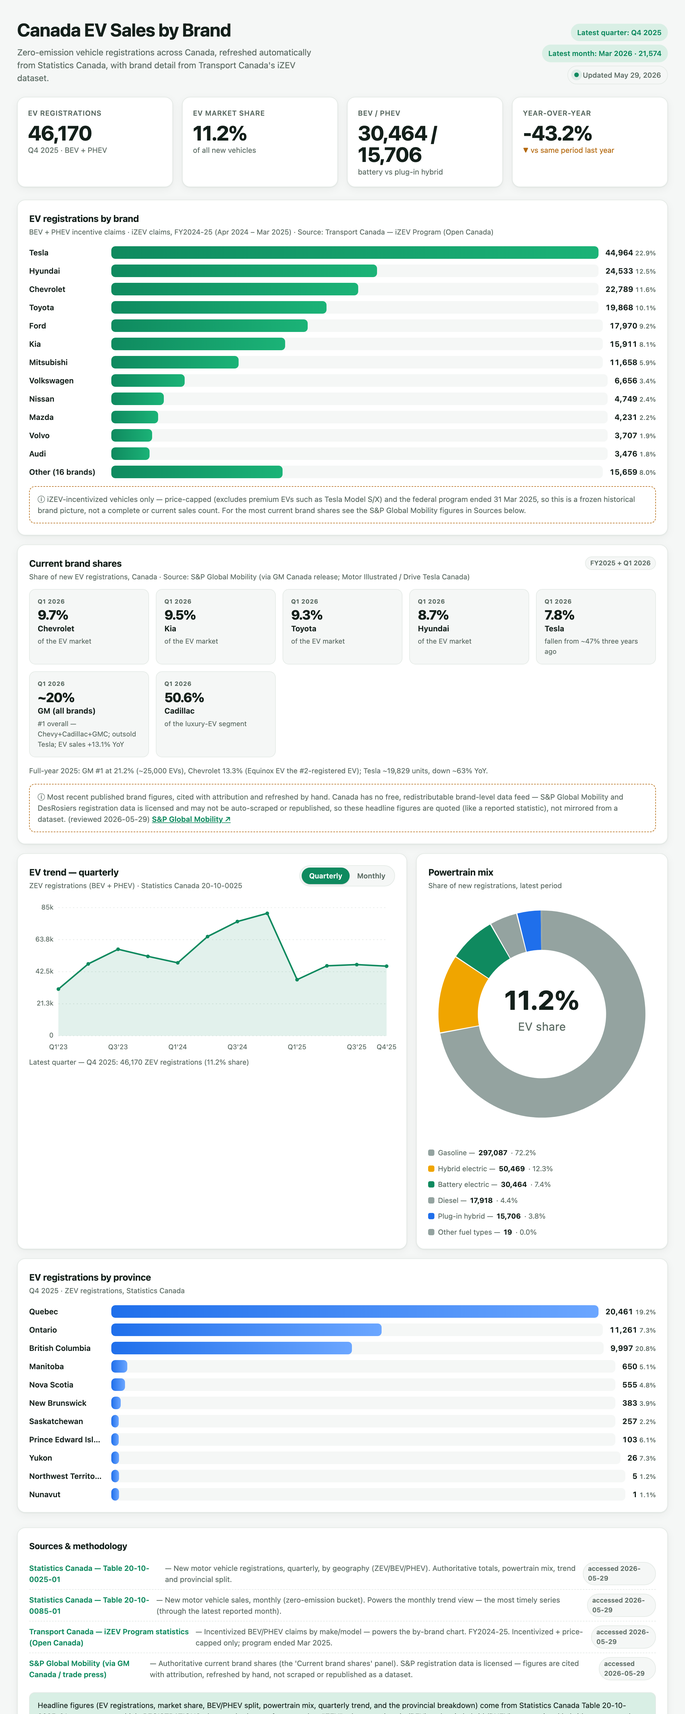
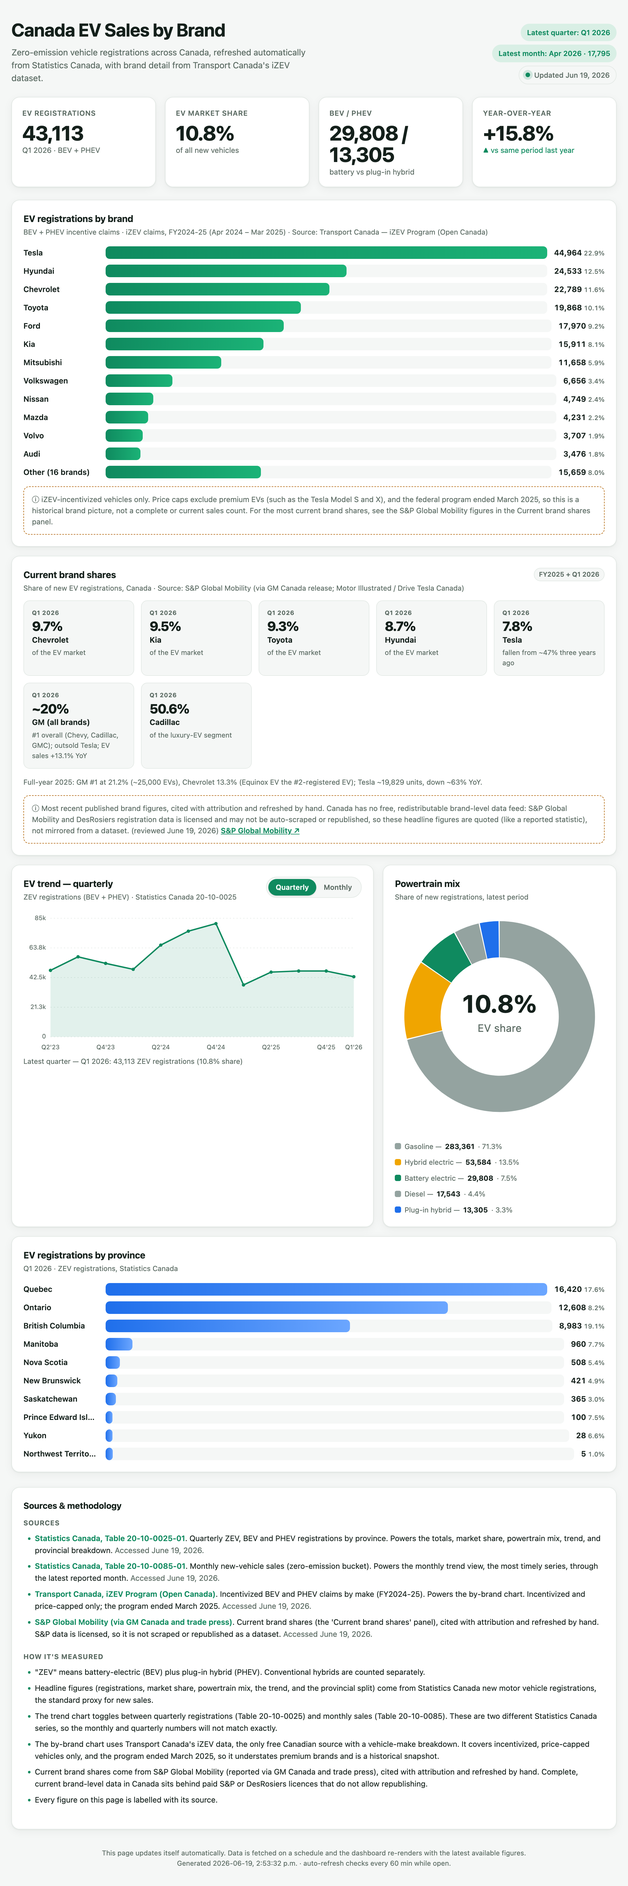
Refresh to Q1 2026 + clean up Sources/methodology (bulleted, left-aligned, friendly dates)
Data: StatCan Q1 2026 registrations + Apr 2026 monthly sales. UI: methodology as bullets, friendly dates, em-dashes removed.

diff --git a/site/index.html b/site/index.html
@@ -82,7 +82,7 @@
   <section class="card sources">
     <h2>Sources &amp; methodology</h2>
     <div id="sources-list"></div>
-    <div class="note" id="methodology"></div>
+    <div id="methodology" class="methodology"></div>
   </section>
 
   <footer class="foot">
@@ -94,7 +94,7 @@
 
 <!-- Embedded data snapshot — regenerated on every update by fetch_data.py. Do not hand-edit. -->
 <script id="ev-data" type="application/json">
-{"status":"ok","generated_at":"2026-05-29T14:27:32-04:00","subtitle":"Zero-emission vehicle registrations across Canada, refreshed automatically from Statistics Canada, with brand detail from Transport Canada's iZEV dataset.","latest_period":{"label":"Q4 2025","type":"quarter"},"totals":{"ev_registrations_latest":46170,"ev_share_pct_latest":11.2,"bev_latest":30464,"phev_latest":15706,"yoy_growth_pct":-43.2,"period_label":"Q4 2025","latest_month":{"label":"Mar 2026","zev":21574,"share_pct":12.2}},"powertrain_mix":[{"fuel_type":"Gasoline","count":297087,"share_pct":72.2},{"fuel_type":"Hybrid electric","count":50469,"share_pct":12.3},{"fuel_type":"Battery electric","count":30464,"share_pct":7.4},{"fuel_type":"Diesel","count":17918,"share_pct":4.4},{"fuel_type":"Plug-in hybrid","count":15706,"share_pct":3.8},{"fuel_type":"Other fuel types","count":19,"share_pct":0.0}],"ev_trend_quarterly":[{"period":"Q1'23","ref_per":"2023-01-01","bev":24217,"phev":6761,"zev_total":30978,"zev_share_pct":8.7},{"period":"Q2'23","ref_per":"2023-04-01","bev":35633,"phev":12052,"zev_total":47685,"zev_share_pct":10.1},{"period":"Q3'23","ref_per":"2023-07-01","bev":43763,"phev":13643,"zev_total":57406,"zev_share_pct":12.6},{"period":"Q4'23","ref_per":"2023-10-01","bev":40053,"phev":12634,"zev_total":52687,"zev_share_pct":12.3},{"period":"Q1'24","ref_per":"2024-01-01","bev":35782,"phev":12643,"zev_total":48425,"zev_share_pct":11.7},{"period":"Q2'24","ref_per":"2024-04-01","bev":48552,"phev":17247,"zev_total":65799,"zev_share_pct":12.9},{"period":"Q3'24","ref_per":"2024-07-01","bev":56197,"phev":19591,"zev_total":75788,"zev_share_pct":15.7},{"period":"Q4'24","ref_per":"2024-10-01","bev":61802,"phev":19414,"zev_total":81216,"zev_share_pct":18.3},{"period":"Q1'25","ref_per":"2025-01-01","bev":26401,"phev":10828,"zev_total":37229,"zev_share_pct":8.7},{"period":"Q2'25","ref_per":"2025-04-01","bev":29536,"phev":16877,"zev_total":46413,"zev_share_pct":8.6},{"period":"Q3'25","ref_per":"2025-07-01","bev":28648,"phev":18574,"zev_total":47222,"zev_share_pct":9.7},{"period":"Q4'25","ref_per":"2025-10-01","bev":30464,"phev":15706,"zev_total":46170,"zev_share_pct":11.2}],"ev_trend_monthly":[{"period":"Apr'24","ref_per":"2024-04-01","zev":20601,"all":175815,"zev_share_pct":11.7},{"period":"May'24","ref_per":"2024-05-01","zev":22612,"all":185178,"zev_share_pct":12.2},{"period":"Jun'24","ref_per":"2024-06-01","zev":21731,"all":166941,"zev_share_pct":13.0},{"period":"Jul'24","ref_per":"2024-07-01","zev":20989,"all":168310,"zev_share_pct":12.5},{"period":"Aug'24","ref_per":"2024-08-01","zev":23250,"all":166153,"zev_share_pct":14.0},{"period":"Sep'24","ref_per":"2024-09-01","zev":30318,"all":166757,"zev_share_pct":18.2},{"period":"Oct'24","ref_per":"2024-10-01","zev":25089,"all":164692,"zev_share_pct":15.2},{"period":"Nov'24","ref_per":"2024-11-01","zev":26487,"all":161535,"zev_share_pct":16.4},{"period":"Dec'24","ref_per":"2024-12-01","zev":24787,"all":135511,"zev_share_pct":18.3},{"period":"Jan'25","ref_per":"2025-01-01","zev":14542,"all":121251,"zev_share_pct":12.0},{"period":"Feb'25","ref_per":"2025-02-01","zev":8578,"all":125130,"zev_share_pct":6.9},{"period":"Mar'25","ref_per":"2025-03-01","zev":12347,"all":189032,"zev_share_pct":6.5},{"period":"Apr'25","ref_per":"2025-04-01","zev":14686,"all":195581,"zev_share_pct":7.5},{"period":"May'25","ref_per":"2025-05-01","zev":15297,"all":194322,"zev_share_pct":7.9},{"period":"Jun'25","ref_per":"2025-06-01","zev":14015,"all":177213,"zev_share_pct":7.9},{"period":"Jul'25","ref_per":"2025-07-01","zev":13916,"all":179797,"zev_share_pct":7.7},{"period":"Aug'25","ref_per":"2025-08-01","zev":14643,"all":166524,"zev_share_pct":8.8},{"period":"Sep'25","ref_per":"2025-09-01","zev":17101,"all":168640,"zev_share_pct":10.1},{"period":"Oct'25","ref_per":"2025-10-01","zev":14653,"all":165580,"zev_share_pct":8.8},{"period":"Nov'25","ref_per":"2025-11-01","zev":14199,"all":148529,"zev_share_pct":9.6},{"period":"Dec'25","ref_per":"2025-12-01","zev":15995,"all":126983,"zev_share_pct":12.6},{"period":"Jan'26","ref_per":"2026-01-01","zev":8672,"all":114261,"zev_share_pct":7.6},{"period":"Feb'26","ref_per":"2026-02-01","zev":12547,"all":124068,"zev_share_pct":10.1},{"period":"Mar'26","ref_per":"2026-03-01","zev":21574,"all":176500,"zev_share_pct":12.2}],"by_province_latest":[{"province":"Quebec","zev":20461,"share_pct":19.2},{"province":"Ontario","zev":11261,"share_pct":7.3},{"province":"British Columbia","zev":9997,"share_pct":20.8},{"province":"Manitoba","zev":650,"share_pct":5.1},{"province":"Nova Scotia","zev":555,"share_pct":4.8},{"province":"New Brunswick","zev":383,"share_pct":3.9},{"province":"Saskatchewan","zev":257,"share_pct":2.2},{"province":"Prince Edward Island","zev":103,"share_pct":6.1},{"province":"Yukon","zev":26,"share_pct":7.3},{"province":"Northwest Territories","zev":5,"share_pct":1.2},{"province":"Nunavut","zev":1,"share_pct":1.1}],"by_brand":[{"brand":"Tesla","units":44964,"share_pct":22.9,"bev":44964,"phev":0},{"brand":"Hyundai","units":24533,"share_pct":12.5,"bev":21314,"phev":3219},{"brand":"Chevrolet","units":22789,"share_pct":11.6,"bev":22789,"phev":0},{"brand":"Toyota","units":19868,"share_pct":10.1,"bev":5638,"phev":14218},{"brand":"Ford","units":17970,"share_pct":9.2,"bev":11353,"phev":6617},{"brand":"Kia","units":15911,"share_pct":8.1,"bev":12802,"phev":3109},{"brand":"Mitsubishi","units":11658,"share_pct":5.9,"bev":0,"phev":11658},{"brand":"Volkswagen","units":6656,"share_pct":3.4,"bev":6656,"phev":0},{"brand":"Nissan","units":4749,"share_pct":2.4,"bev":4749,"phev":0},{"brand":"Mazda","units":4231,"share_pct":2.2,"bev":189,"phev":4042},{"brand":"Volvo","units":3707,"share_pct":1.9,"bev":2108,"phev":1599},{"brand":"Audi","units":3476,"share_pct":1.8,"bev":3476,"phev":0},{"brand":"Other (16 brands)","units":15659,"share_pct":8.0}],"by_brand_meta":{"source":"Transport Canada — iZEV Program (Open Canada)","source_url":"https://open.canada.ca/data/en/dataset/42986a95-be23-436e-af15-7c6bf292a2e1","period":"iZEV claims, FY2024-25 (Apr 2024 – Mar 2025)","metric":"BEV + PHEV incentive claims","credibility_note":"iZEV-incentivized vehicles only — price-capped (excludes premium EVs such as Tesla Model S/X) and the federal program ended 31 Mar 2025, so this is a frozen historical brand picture, not a complete or current sales count. For the most current brand shares see the S&P Global Mobility figures in Sources below."},"current_brand_shares":{"as_of":"FY2025 + Q1 2026","reviewed":"2026-05-29","metric":"Share of new EV registrations, Canada","source":"S&P Global Mobility","via":"GM Canada release; Motor Illustrated / Drive Tesla Canada","source_url":"https://www.spglobal.com/mobility/en/info/0521/automotive-insights-canada-evs.html","rows":[{"period":"Q1 2026","label":"Chevrolet","value":"9.7%","note":"of the EV market"},{"period":"Q1 2026","label":"Kia","value":"9.5%","note":"of the EV market"},{"period":"Q1 2026","label":"Toyota","value":"9.3%","note":"of the EV market"},{"period":"Q1 2026","label":"Hyundai","value":"8.7%","note":"of the EV market"},{"period":"Q1 2026","label":"Tesla","value":"7.8%","note":"fallen from ~47% three years ago"},{"period":"Q1 2026","label":"GM (all brands)","value":"~20%","note":"#1 overall — Chevy+Cadillac+GMC; outsold Tesla; EV sales +13.1% YoY"},{"period":"Q1 2026","label":"Cadillac","value":"50.6%","note":"of the luxury-EV segment"}],"context":"Full-year 2025: GM #1 at 21.2% (~25,000 EVs), Chevrolet 13.3% (Equinox EV the #2-registered EV); Tesla ~19,829 units, down ~63% YoY.","note":"Most recent published brand figures, cited with attribution and refreshed by hand. Canada has no free, redistributable brand-level data feed — S&P Global Mobility and DesRosiers registration data is licensed and may not be auto-scraped or republished, so these headline figures are quoted (like a reported statistic), not mirrored from a dataset."},"sources":[{"name":"Statistics Canada — Table 20-10-0025-01","detail":"New motor vehicle registrations, quarterly, by geography (ZEV/BEV/PHEV). Authoritative totals, powertrain mix, trend and provincial split.","url":"https://www150.statcan.gc.ca/t1/tbl1/en/tv.action?pid=2010002501","accessed":"2026-05-29"},{"name":"Statistics Canada — Table 20-10-0085-01","detail":"New motor vehicle sales, monthly (zero-emission bucket). Powers the monthly trend view — the most timely series (through the latest reported month).","url":"https://www150.statcan.gc.ca/t1/tbl1/en/tv.action?pid=2010008501","accessed":"2026-05-29"},{"name":"Transport Canada — iZEV Program statistics (Open Canada)","detail":"Incentivized BEV/PHEV claims by make/model — powers the by-brand chart. FY2024-25. Incentivized + price-capped only; program ended Mar 2025.","url":"https://open.canada.ca/data/en/dataset/42986a95-be23-436e-af15-7c6bf292a2e1","accessed":"2026-05-29"},{"name":"S&P Global Mobility (via GM Canada / trade press)","detail":"Authoritative current brand shares (the 'Current brand shares' panel). S&P registration data is licensed — figures are cited with attribution, refreshed by hand, not scraped or republished as a dataset.","url":"https://www.spglobal.com/mobility/en/info/0521/automotive-insights-canada-evs.html","accessed":"2026-05-29"}],"methodology":"Headline figures (EV registrations, market share, BEV/PHEV split, powertrain mix, quarterly trend, and the provincial breakdown) come from Statistics Canada Table 20-10-0025-01 — new motor vehicle REGISTRATIONS, the standard proxy for new sales. \"ZEV\" = battery-electric (BEV) + plug-in hybrid (PHEV); conventional hybrids are counted separately. The trend chart toggles between quarterly registrations (20-10-0025, with the BEV/PHEV split) and monthly SALES (20-10-0085, a single zero-emission bucket and the most timely series) — these are two different StatCan series, so the monthly and quarterly figures will not tie out exactly. The by-brand chart uses Transport Canada's iZEV incentive dataset, the only free, machine-readable Canadian source with a vehicle-make dimension — but it covers incentivized, price-capped vehicles only and the program ended 31 Mar 2025, so it understates premium brands and is a frozen historical view. For the most current brand picture, the 'Current brand shares' panel shows S&P Global Mobility figures (as reported via GM Canada and trade press) — cited with attribution and refreshed by hand, because complete, current, brand-level registration data in Canada exists only behind paid S&P Global Mobility / DesRosiers licences whose terms forbid auto-scraping or republishing. Every figure is labelled with its source.","notes":[],"build":{"statcan_ok":true,"izev_fy":"FY2024-25","izev_total":196171,"izev_fetched":"2026-05-29T10:47:42"}}
+{"status":"ok","generated_at":"2026-06-19T14:53:32-04:00","subtitle":"Zero-emission vehicle registrations across Canada, refreshed automatically from Statistics Canada, with brand detail from Transport Canada's iZEV dataset.","latest_period":{"label":"Q1 2026","type":"quarter"},"totals":{"ev_registrations_latest":43113,"ev_share_pct_latest":10.8,"bev_latest":29808,"phev_latest":13305,"yoy_growth_pct":15.8,"period_label":"Q1 2026","latest_month":{"label":"Apr 2026","zev":17795,"share_pct":9.7}},"powertrain_mix":[{"fuel_type":"Gasoline","count":283361,"share_pct":71.3},{"fuel_type":"Hybrid electric","count":53584,"share_pct":13.5},{"fuel_type":"Battery electric","count":29808,"share_pct":7.5},{"fuel_type":"Diesel","count":17543,"share_pct":4.4},{"fuel_type":"Plug-in hybrid","count":13305,"share_pct":3.3}],"ev_trend_quarterly":[{"period":"Q2'23","ref_per":"2023-04-01","bev":35633,"phev":12052,"zev_total":47685,"zev_share_pct":10.1},{"period":"Q3'23","ref_per":"2023-07-01","bev":43763,"phev":13643,"zev_total":57406,"zev_share_pct":12.6},{"period":"Q4'23","ref_per":"2023-10-01","bev":40053,"phev":12634,"zev_total":52687,"zev_share_pct":12.3},{"period":"Q1'24","ref_per":"2024-01-01","bev":35782,"phev":12643,"zev_total":48425,"zev_share_pct":11.7},{"period":"Q2'24","ref_per":"2024-04-01","bev":48552,"phev":17247,"zev_total":65799,"zev_share_pct":12.9},{"period":"Q3'24","ref_per":"2024-07-01","bev":56197,"phev":19591,"zev_total":75788,"zev_share_pct":15.7},{"period":"Q4'24","ref_per":"2024-10-01","bev":61802,"phev":19414,"zev_total":81216,"zev_share_pct":18.3},{"period":"Q1'25","ref_per":"2025-01-01","bev":26401,"phev":10828,"zev_total":37229,"zev_share_pct":8.7},{"period":"Q2'25","ref_per":"2025-04-01","bev":29536,"phev":16877,"zev_total":46413,"zev_share_pct":8.6},{"period":"Q3'25","ref_per":"2025-07-01","bev":28648,"phev":18574,"zev_total":47222,"zev_share_pct":9.7},{"period":"Q4'25","ref_per":"2025-10-01","bev":31482,"phev":15722,"zev_total":47204,"zev_share_pct":11.4},{"period":"Q1'26","ref_per":"2026-01-01","bev":29808,"phev":13305,"zev_total":43113,"zev_share_pct":10.8}],"ev_trend_monthly":[{"period":"May'24","ref_per":"2024-05-01","zev":22612,"all":185178,"zev_share_pct":12.2},{"period":"Jun'24","ref_per":"2024-06-01","zev":21731,"all":166941,"zev_share_pct":13.0},{"period":"Jul'24","ref_per":"2024-07-01","zev":20989,"all":168310,"zev_share_pct":12.5},{"period":"Aug'24","ref_per":"2024-08-01","zev":23250,"all":166153,"zev_share_pct":14.0},{"period":"Sep'24","ref_per":"2024-09-01","zev":30318,"all":166757,"zev_share_pct":18.2},{"period":"Oct'24","ref_per":"2024-10-01","zev":25089,"all":164692,"zev_share_pct":15.2},{"period":"Nov'24","ref_per":"2024-11-01","zev":26487,"all":161535,"zev_share_pct":16.4},{"period":"Dec'24","ref_per":"2024-12-01","zev":24787,"all":135511,"zev_share_pct":18.3},{"period":"Jan'25","ref_per":"2025-01-01","zev":14542,"all":121251,"zev_share_pct":12.0},{"period":"Feb'25","ref_per":"2025-02-01","zev":8578,"all":125130,"zev_share_pct":6.9},{"period":"Mar'25","ref_per":"2025-03-01","zev":12347,"all":189032,"zev_share_pct":6.5},{"period":"Apr'25","ref_per":"2025-04-01","zev":14686,"all":195581,"zev_share_pct":7.5},{"period":"May'25","ref_per":"2025-05-01","zev":15297,"all":194322,"zev_share_pct":7.9},{"period":"Jun'25","ref_per":"2025-06-01","zev":14015,"all":177213,"zev_share_pct":7.9},{"period":"Jul'25","ref_per":"2025-07-01","zev":13916,"all":179797,"zev_share_pct":7.7},{"period":"Aug'25","ref_per":"2025-08-01","zev":14643,"all":166524,"zev_share_pct":8.8},{"period":"Sep'25","ref_per":"2025-09-01","zev":17101,"all":168640,"zev_share_pct":10.1},{"period":"Oct'25","ref_per":"2025-10-01","zev":14653,"all":165580,"zev_share_pct":8.8},{"period":"Nov'25","ref_per":"2025-11-01","zev":14199,"all":148529,"zev_share_pct":9.6},{"period":"Dec'25","ref_per":"2025-12-01","zev":15995,"all":126983,"zev_share_pct":12.6},{"period":"Jan'26","ref_per":"2026-01-01","zev":8672,"all":114261,"zev_share_pct":7.6},{"period":"Feb'26","ref_per":"2026-02-01","zev":12547,"all":124068,"zev_share_pct":10.1},{"period":"Mar'26","ref_per":"2026-03-01","zev":21574,"all":176500,"zev_share_pct":12.2},{"period":"Apr'26","ref_per":"2026-04-01","zev":17795,"all":183921,"zev_share_pct":9.7}],"by_province_latest":[{"province":"Quebec","zev":16420,"share_pct":17.6},{"province":"Ontario","zev":12608,"share_pct":8.2},{"province":"British Columbia","zev":8983,"share_pct":19.1},{"province":"Manitoba","zev":960,"share_pct":7.7},{"province":"Nova Scotia","zev":508,"share_pct":5.4},{"province":"New Brunswick","zev":421,"share_pct":4.9},{"province":"Saskatchewan","zev":365,"share_pct":3.0},{"province":"Prince Edward Island","zev":100,"share_pct":7.5},{"province":"Yukon","zev":28,"share_pct":6.6},{"province":"Northwest Territories","zev":5,"share_pct":1.0}],"by_brand":[{"brand":"Tesla","units":44964,"share_pct":22.9,"bev":44964,"phev":0},{"brand":"Hyundai","units":24533,"share_pct":12.5,"bev":21314,"phev":3219},{"brand":"Chevrolet","units":22789,"share_pct":11.6,"bev":22789,"phev":0},{"brand":"Toyota","units":19868,"share_pct":10.1,"bev":5638,"phev":14218},{"brand":"Ford","units":17970,"share_pct":9.2,"bev":11353,"phev":6617},{"brand":"Kia","units":15911,"share_pct":8.1,"bev":12802,"phev":3109},{"brand":"Mitsubishi","units":11658,"share_pct":5.9,"bev":0,"phev":11658},{"brand":"Volkswagen","units":6656,"share_pct":3.4,"bev":6656,"phev":0},{"brand":"Nissan","units":4749,"share_pct":2.4,"bev":4749,"phev":0},{"brand":"Mazda","units":4231,"share_pct":2.2,"bev":189,"phev":4042},{"brand":"Volvo","units":3707,"share_pct":1.9,"bev":2108,"phev":1599},{"brand":"Audi","units":3476,"share_pct":1.8,"bev":3476,"phev":0},{"brand":"Other (16 brands)","units":15659,"share_pct":8.0}],"by_brand_meta":{"source":"Transport Canada — iZEV Program (Open Canada)","source_url":"https://open.canada.ca/data/en/dataset/42986a95-be23-436e-af15-7c6bf292a2e1","period":"iZEV claims, FY2024-25 (Apr 2024 – Mar 2025)","metric":"BEV + PHEV incentive claims","credibility_note":"iZEV-incentivized vehicles only. Price caps exclude premium EVs (such as the Tesla Model S and X), and the federal program ended March 2025, so this is a historical brand picture, not a complete or current sales count. For the most current brand shares, see the S&P Global Mobility figures in the Current brand shares panel."},"current_brand_shares":{"as_of":"FY2025 + Q1 2026","reviewed":"2026-06-19","metric":"Share of new EV registrations, Canada","source":"S&P Global Mobility","via":"GM Canada release; Motor Illustrated / Drive Tesla Canada","source_url":"https://www.spglobal.com/mobility/en/info/0521/automotive-insights-canada-evs.html","rows":[{"period":"Q1 2026","label":"Chevrolet","value":"9.7%","note":"of the EV market"},{"period":"Q1 2026","label":"Kia","value":"9.5%","note":"of the EV market"},{"period":"Q1 2026","label":"Toyota","value":"9.3%","note":"of the EV market"},{"period":"Q1 2026","label":"Hyundai","value":"8.7%","note":"of the EV market"},{"period":"Q1 2026","label":"Tesla","value":"7.8%","note":"fallen from ~47% three years ago"},{"period":"Q1 2026","label":"GM (all brands)","value":"~20%","note":"#1 overall (Chevy, Cadillac, GMC); outsold Tesla; EV sales +13.1% YoY"},{"period":"Q1 2026","label":"Cadillac","value":"50.6%","note":"of the luxury-EV segment"}],"context":"Full-year 2025: GM #1 at 21.2% (~25,000 EVs), Chevrolet 13.3% (Equinox EV the #2-registered EV); Tesla ~19,829 units, down ~63% YoY.","note":"Most recent published brand figures, cited with attribution and refreshed by hand. Canada has no free, redistributable brand-level data feed: S&P Global Mobility and DesRosiers registration data is licensed and may not be auto-scraped or republished, so these headline figures are quoted (like a reported statistic), not mirrored from a dataset."},"sources":[{"name":"Statistics Canada, Table 20-10-0025-01","detail":"Quarterly ZEV, BEV and PHEV registrations by province. Powers the totals, market share, powertrain mix, trend, and provincial breakdown.","url":"https://www150.statcan.gc.ca/t1/tbl1/en/tv.action?pid=2010002501","accessed":"2026-06-19"},{"name":"Statistics Canada, Table 20-10-0085-01","detail":"Monthly new-vehicle sales (zero-emission bucket). Powers the monthly trend view, the most timely series, through the latest reported month.","url":"https://www150.statcan.gc.ca/t1/tbl1/en/tv.action?pid=2010008501","accessed":"2026-06-19"},{"name":"Transport Canada, iZEV Program (Open Canada)","detail":"Incentivized BEV and PHEV claims by make (FY2024-25). Powers the by-brand chart. Incentivized and price-capped only; the program ended March 2025.","url":"https://open.canada.ca/data/en/dataset/42986a95-be23-436e-af15-7c6bf292a2e1","accessed":"2026-06-19"},{"name":"S&P Global Mobility (via GM Canada and trade press)","detail":"Current brand shares (the 'Current brand shares' panel), cited with attribution and refreshed by hand. S&P data is licensed, so it is not scraped or republished as a dataset.","url":"https://www.spglobal.com/mobility/en/info/0521/automotive-insights-canada-evs.html","accessed":"2026-06-19"}],"methodology":["\"ZEV\" means battery-electric (BEV) plus plug-in hybrid (PHEV). Conventional hybrids are counted separately.","Headline figures (registrations, market share, powertrain mix, the trend, and the provincial split) come from Statistics Canada new motor vehicle registrations, the standard proxy for new sales.","The trend chart toggles between quarterly registrations (Table 20-10-0025) and monthly sales (Table 20-10-0085). These are two different Statistics Canada series, so the monthly and quarterly numbers will not match exactly.","The by-brand chart uses Transport Canada's iZEV data, the only free Canadian source with a vehicle-make breakdown. It covers incentivized, price-capped vehicles only, and the program ended March 2025, so it understates premium brands and is a historical snapshot.","Current brand shares come from S&P Global Mobility (reported via GM Canada and trade press), cited with attribution and refreshed by hand. Complete, current brand-level data in Canada sits behind paid S&P or DesRosiers licences that do not allow republishing.","Every figure on this page is labelled with its source."],"notes":[],"build":{"statcan_ok":true,"izev_fy":"FY2024-25","izev_total":196171,"izev_fetched":"2026-06-19T14:53:32"}}
 </script>
 
 <script src="app.js"></script>

diff --git a/site/app.js b/site/app.js
@@ -20,6 +20,16 @@
   function esc(s) { return String(s == null ? "" : s).replace(/[&<>"']/g, function (c) {
     return { "&": "&amp;", "<": "&lt;", ">": "&gt;", '"': "&quot;", "'": "&#39;" }[c]; }); }
 
+  // ISO date -> friendly "June 19, 2026" (leaves non-ISO strings untouched)
+  var MONTHS_LONG = ["January", "February", "March", "April", "May", "June",
+    "July", "August", "September", "October", "November", "December"];
+  function friendlyDate(s) {
+    if (!s) return "";
+    var m = /^(\d{4})-(\d{2})-(\d{2})/.exec(String(s));
+    if (!m) return String(s);
+    return MONTHS_LONG[+m[2] - 1] + " " + (+m[3]) + ", " + m[1];
+  }
+
   function readEmbedded() {
     try { return JSON.parse(document.getElementById("ev-data").textContent); }
     catch (e) { return null; }
@@ -308,17 +318,24 @@
 
   function renderSources(d) {
     var host = document.getElementById("sources-list");
-    host.innerHTML = "";
-    (d.sources || []).forEach(function (s) {
-      var item = el("div", { class: "source-item" });
-      var link = s.url ? '<a href="' + esc(s.url) + '" target="_blank" rel="noopener">' + esc(s.name) + "</a>" : "<strong>" + esc(s.name) + "</strong>";
-      var detail = s.detail ? " — " + esc(s.detail) : "";
-      var acc = s.accessed ? ' <span class="pill">accessed ' + esc(s.accessed) + "</span>" : "";
-      item.innerHTML = link + detail + acc;
-      host.appendChild(item);
-    });
+    var srcLis = (d.sources || []).map(function (s) {
+      var link = s.url
+        ? '<a href="' + esc(s.url) + '" target="_blank" rel="noopener">' + esc(s.name) + "</a>"
+        : "<strong>" + esc(s.name) + "</strong>";
+      var detail = s.detail ? ". " + esc(s.detail) : "";
+      var acc = s.accessed ? ' <span class="muted">Accessed ' + esc(friendlyDate(s.accessed)) + ".</span>" : "";
+      return "<li>" + link + detail + acc + "</li>";
+    }).join("");
+    host.innerHTML = '<h3 class="section-label">Sources</h3><ul class="src-list">' + srcLis + "</ul>";
+
     var meth = document.getElementById("methodology");
-    meth.innerHTML = d.methodology ? esc(d.methodology).replace(/\n/g, "<br />") : "";
+    var m = d.methodology;
+    if (Array.isArray(m)) {
+      meth.innerHTML = '<h3 class="section-label">How it&#39;s measured</h3><ul class="bullets">' +
+        m.map(function (x) { return "<li>" + esc(x) + "</li>"; }).join("") + "</ul>";
+    } else {
+      meth.innerHTML = m ? esc(m).replace(/\n/g, "<br />") : "";
+    }
   }
 
   function renderCurrentShares(d) {
@@ -347,7 +364,7 @@
     var note = document.getElementById("shares-note");
     var link = s.source_url ? ' <a href="' + esc(s.source_url) +
       '" target="_blank" rel="noopener" style="color:var(--accent);font-weight:600;">S&amp;P Global Mobility ↗</a>' : "";
-    note.innerHTML = "ⓘ " + esc(s.note || "") + (s.reviewed ? " (reviewed " + esc(s.reviewed) + ")" : "") + link;
+    note.innerHTML = "ⓘ " + esc(s.note || "") + (s.reviewed ? " (reviewed " + esc(friendlyDate(s.reviewed)) + ")" : "") + link;
   }
 
   function render(d) {

diff --git a/site/styles.css b/site/styles.css
@@ -122,6 +122,16 @@ table.data tr:last-child td { border-bottom: none; }
 .source-item a:hover { text-decoration: underline; }
 .note { background: var(--accent-soft); color: var(--ink); border-radius: 10px; padding: 12px 14px; font-size: 13px; margin-top: 14px; border: 1px solid var(--line); }
 .note.caveat { background: transparent; border: 1px dashed var(--warn); color: var(--ink-soft); }
+
+/* Sources & methodology — left-aligned, bulleted, friendly dates */
+.sources, .note { text-align: left; }
+.section-label { font-size: 12px; font-weight: 700; text-transform: uppercase; letter-spacing: .05em; color: var(--ink-soft); margin: 4px 0 8px; }
+.src-list, .bullets { margin: 2px 0 20px; padding-left: 20px; text-align: left; }
+.src-list li, .bullets li { margin: 7px 0; line-height: 1.55; font-size: 13.5px; }
+.src-list li::marker, .bullets li::marker { color: var(--accent); }
+.src-list a { color: var(--accent); font-weight: 600; text-decoration: none; }
+.src-list a:hover { text-decoration: underline; }
+.methodology { background: none; border: none; padding: 0; margin: 0; }
 footer.foot { margin-top: 32px; text-align: center; color: var(--ink-soft); font-size: 12px; }
 footer.foot code { background: var(--card); padding: 2px 6px; border-radius: 5px; border: 1px solid var(--line); }
 

diff --git a/fetch_data.py b/fetch_data.py
@@ -418,10 +418,10 @@ def aggregate_izev():
             "period": period,
             "metric": "BEV + PHEV incentive claims",
             "credibility_note": (
-                "iZEV-incentivized vehicles only — price-capped (excludes premium EVs such as "
-                "Tesla Model S/X) and the federal program ended 31 Mar 2025, so this is a frozen "
-                "historical brand picture, not a complete or current sales count. For the most "
-                "current brand shares see the S&P Global Mobility figures in Sources below."
+                "iZEV-incentivized vehicles only. Price caps exclude premium EVs (such as the Tesla "
+                "Model S and X), and the federal program ended March 2025, so this is a historical "
+                "brand picture, not a complete or current sales count. For the most current brand "
+                "shares, see the S&P Global Mobility figures in the Current brand shares panel."
             ),
         },
         "_izev_total": grand_total,
@@ -495,7 +495,7 @@ def load_prev():
 # published (e.g. the next GM Canada quarterly EV release or S&P "Canadian EV Insights").
 CURRENT_BRAND_SHARES = {
     "as_of": "FY2025 + Q1 2026",
-    "reviewed": "2026-05-29",
+    "reviewed": "2026-06-19",
     "metric": "Share of new EV registrations, Canada",
     "source": "S&P Global Mobility",
     "via": "GM Canada release; Motor Illustrated / Drive Tesla Canada",
@@ -509,12 +509,12 @@ CURRENT_BRAND_SHARES = {
         {"period": "Q1 2026", "label": "Toyota", "value": "9.3%", "note": "of the EV market"},
         {"period": "Q1 2026", "label": "Hyundai", "value": "8.7%", "note": "of the EV market"},
         {"period": "Q1 2026", "label": "Tesla", "value": "7.8%", "note": "fallen from ~47% three years ago"},
-        {"period": "Q1 2026", "label": "GM (all brands)", "value": "~20%", "note": "#1 overall — Chevy+Cadillac+GMC; outsold Tesla; EV sales +13.1% YoY"},
+        {"period": "Q1 2026", "label": "GM (all brands)", "value": "~20%", "note": "#1 overall (Chevy, Cadillac, GMC); outsold Tesla; EV sales +13.1% YoY"},
         {"period": "Q1 2026", "label": "Cadillac", "value": "50.6%", "note": "of the luxury-EV segment"},
     ],
     "context": "Full-year 2025: GM #1 at 21.2% (~25,000 EVs), Chevrolet 13.3% (Equinox EV the #2-registered EV); Tesla ~19,829 units, down ~63% YoY.",
     "note": ("Most recent published brand figures, cited with attribution and refreshed by hand. "
-             "Canada has no free, redistributable brand-level data feed — S&P Global Mobility and "
+             "Canada has no free, redistributable brand-level data feed: S&P Global Mobility and "
              "DesRosiers registration data is licensed and may not be auto-scraped or republished, "
              "so these headline figures are quoted (like a reported statistic), not mirrored from a dataset."),
 }
@@ -541,53 +541,53 @@ def assemble(statcan, monthly, izev, prev):
         "current_brand_shares": CURRENT_BRAND_SHARES,
         "sources": [
             {
-                "name": "Statistics Canada — Table 20-10-0025-01",
-                "detail": "New motor vehicle registrations, quarterly, by geography (ZEV/BEV/PHEV). "
-                          "Authoritative totals, powertrain mix, trend and provincial split.",
+                "name": "Statistics Canada, Table 20-10-0025-01",
+                "detail": "Quarterly ZEV, BEV and PHEV registrations by province. Powers the totals, "
+                          "market share, powertrain mix, trend, and provincial breakdown.",
                 "url": "https://www150.statcan.gc.ca/t1/tbl1/en/tv.action?pid=2010002501",
                 "accessed": TODAY,
             },
             {
-                "name": "Statistics Canada — Table 20-10-0085-01",
-                "detail": "New motor vehicle sales, monthly (zero-emission bucket). Powers the monthly "
-                          "trend view — the most timely series (through the latest reported month).",
+                "name": "Statistics Canada, Table 20-10-0085-01",
+                "detail": "Monthly new-vehicle sales (zero-emission bucket). Powers the monthly trend "
+                          "view, the most timely series, through the latest reported month.",
                 "url": "https://www150.statcan.gc.ca/t1/tbl1/en/tv.action?pid=2010008501",
                 "accessed": TODAY,
             },
             {
-                "name": "Transport Canada — iZEV Program statistics (Open Canada)",
-                "detail": f"Incentivized BEV/PHEV claims by make/model — powers the by-brand chart. "
-                          f"{izev.get('_izev_fy', '')}. Incentivized + price-capped only; program ended Mar 2025.",
+                "name": "Transport Canada, iZEV Program (Open Canada)",
+                "detail": f"Incentivized BEV and PHEV claims by make ({izev.get('_izev_fy', '')}). "
+                          f"Powers the by-brand chart. Incentivized and price-capped only; the program "
+                          f"ended March 2025.",
                 "url": "https://open.canada.ca/data/en/dataset/" + IZEV_PKG,
                 "accessed": TODAY,
             },
             {
-                "name": "S&P Global Mobility (via GM Canada / trade press)",
-                "detail": "Authoritative current brand shares (the 'Current brand shares' panel). "
-                          "S&P registration data is licensed — figures are cited with attribution, "
-                          "refreshed by hand, not scraped or republished as a dataset.",
+                "name": "S&P Global Mobility (via GM Canada and trade press)",
+                "detail": "Current brand shares (the 'Current brand shares' panel), cited with "
+                          "attribution and refreshed by hand. S&P data is licensed, so it is not "
+                          "scraped or republished as a dataset.",
                 "url": "https://www.spglobal.com/mobility/en/info/0521/automotive-insights-canada-evs.html",
                 "accessed": TODAY,
             },
         ],
-        "methodology": (
-            "Headline figures (EV registrations, market share, BEV/PHEV split, powertrain mix, "
-            "quarterly trend, and the provincial breakdown) come from Statistics Canada Table "
-            "20-10-0025-01 — new motor vehicle REGISTRATIONS, the standard proxy for new sales. "
-            "\"ZEV\" = battery-electric (BEV) + plug-in hybrid (PHEV); conventional hybrids are "
-            "counted separately. The trend chart toggles between quarterly registrations (20-10-0025, "
-            "with the BEV/PHEV split) and monthly SALES (20-10-0085, a single zero-emission bucket and "
-            "the most timely series) — these are two different StatCan series, so the monthly and "
-            "quarterly figures will not tie out exactly. The by-brand chart uses Transport Canada's iZEV incentive dataset, "
-            "the only free, machine-readable Canadian source with a vehicle-make dimension — but it "
-            "covers incentivized, price-capped vehicles only and the program ended 31 Mar 2025, so "
-            "it understates premium brands and is a frozen historical view. For the most current brand "
-            "picture, the 'Current brand shares' panel shows S&P Global Mobility figures (as reported "
-            "via GM Canada and trade press) — cited with attribution and refreshed by hand, because "
-            "complete, current, brand-level registration data in Canada exists only behind paid S&P "
-            "Global Mobility / DesRosiers licences whose terms forbid auto-scraping or republishing. "
-            "Every figure is labelled with its source."
-        ),
+        "methodology": [
+            "\"ZEV\" means battery-electric (BEV) plus plug-in hybrid (PHEV). Conventional hybrids "
+            "are counted separately.",
+            "Headline figures (registrations, market share, powertrain mix, the trend, and the "
+            "provincial split) come from Statistics Canada new motor vehicle registrations, the "
+            "standard proxy for new sales.",
+            "The trend chart toggles between quarterly registrations (Table 20-10-0025) and monthly "
+            "sales (Table 20-10-0085). These are two different Statistics Canada series, so the "
+            "monthly and quarterly numbers will not match exactly.",
+            "The by-brand chart uses Transport Canada's iZEV data, the only free Canadian source with "
+            "a vehicle-make breakdown. It covers incentivized, price-capped vehicles only, and the "
+            "program ended March 2025, so it understates premium brands and is a historical snapshot.",
+            "Current brand shares come from S&P Global Mobility (reported via GM Canada and trade "
+            "press), cited with attribution and refreshed by hand. Complete, current brand-level data "
+            "in Canada sits behind paid S&P or DesRosiers licences that do not allow republishing.",
+            "Every figure on this page is labelled with its source.",
+        ],
         "notes": [],
         "build": {
             "statcan_ok": bool(statcan.get("totals")),
